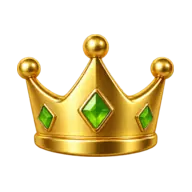
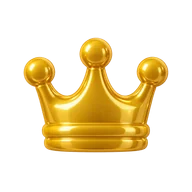
feat: generate modern token and disc sprites

Changed region(s): [[0.0625, 0.1562, 0.9062, 0.8438]]

diff --git a/docs/design/game-art-production.md b/docs/design/game-art-production.md
@@ -68,13 +68,15 @@ node scripts/normalize-game-art.mjs --family checkers
 node scripts/normalize-game-art.mjs --asset modern/checkers/player-1
 ```
 
-Each output is derived from its own individual `sourcePath` and writes exactly its `finalPath`; Hangman also reads its six sibling sources to establish the shared framing. Missing files, absent alpha, non-square images, edge-touching silhouettes (including faint alpha), opaque corners, unsafe padding, wrong fill, and extra meaningful objects fail before any output is replaced. Legacy, generation-pending, and authority-pending records cannot be normalized. The CLI validates every selected source before writing output files.
+Each output is derived from its own individual `sourcePath` and writes exactly its `finalPath`; Hangman also reads its six sibling sources to establish the shared framing. Missing files, absent alpha, non-square images, meaningful clipped content, and extra meaningful objects fail before any output is replaced. Non-Hangman source preparation removes only detached sub-5% alpha residue in memory; connected antialiasing remains intact. Strict final WebP validation still rejects every nonzero-alpha edge contact, opaque corners, unsafe padding, wrong fill, and extra meaningful objects. Legacy, generation-pending, and authority-pending records cannot be normalized. The CLI preflights every selected source and final output before writing output files.
 
 `readImageMetrics(input)` accepts a file path or encoded buffer and returns decoded dimensions, original `hasAlpha`, format, visible bounds, fill, per-side padding, corner/edge checks, visible-pixel count, and connected-component metrics. Geometry includes every nonzero alpha pixel. Connectivity uses alpha at least 13/255 (approximately 5%), eight-neighbor connectivity, and a meaningful component threshold of the greater of four pixels or 1% of connected foreground. Valid art requires one meaningful component containing at least 95% of the connected foreground.
 
 `assertImageMetrics(metrics, record)` enforces the record's square target dimension, alpha requirements, at least 10% transparent padding on every side, and 72–80% longest-bound fill. Fill is the maximum of visible width/canvas width and visible height/canvas height, not opaque pixel area; thin quarter edges and wide Hangman platforms therefore retain sensible framing. The manifest's bounds are fixed at `{ minFill: 0.72, maxFill: 0.80, safePadding: 0.10 }` and cannot be weakened to make an image pass.
 
-`normalizeGameArtAsset(record, { root, write = true })` handles non-Hangman families, validates the source, crops only its empty border, scales visible pixels down toward 76% of the target canvas, and centers them. It never upscales, removes objects, fabricates alpha, or repairs clipped art. The final WebP uses quality 86, alpha quality 100, and effort 6, then is decoded and revalidated before writing. Too-small sources fail if they cannot meet minimum fill without upscaling. It returns `{ data, metrics, finalPath }`; `write: false` allows a no-write preflight. Repeat runs with the same sources and locked image-tool versions produce identical bytes.
+`normalizeGameArtAsset(record, { root, write = true })` handles non-Hangman families, prepares the source without changing its file, crops empty borders, scales visible pixels down toward 76% of the target canvas, and centers them. It never upscales, removes meaningful objects, fabricates a missing alpha channel, or repairs clipped art. Oversized or off-center source framing can be normalized when the complete source silhouette is intact. The final WebP uses quality 86, alpha quality 100, and effort 6, then is decoded and revalidated against the unchanged strict contract before writing. Too-small sources fail if they cannot meet minimum fill without upscaling. It returns `{ data, metrics, finalPath }`; `write: false` allows a no-write preflight. Repeat runs with the same sources and locked image-tool versions produce identical bytes.
+
+Task 2B exposed faint detached alpha in built-in PNGs, which the original source preflight incorrectly treated as clipped production art. `prepareGameArtSource(input)` first requires square genuine-alpha art with one meaningful component containing at least 95% of foreground at alpha >=13/255. Every pixel at that threshold is preserved and must be clear of the canvas edge. An eight-neighbor flood through nonzero alpha preserves all connected antialiasing; only unconnected pixels below 13/255 are cleared in memory. Connected faint bridges reaching an edge still fail. The helper returns `{ input, metrics, removedPixels }`; original source PNGs remain byte-identical. `readImageMetrics`, strict final assertions, and Hangman group framing are unchanged. Synthetic regressions cover residue cleanup, antialias preservation, meaningful edge/secondary-object rejection, deterministic output, source preservation, and no upscaling.
 
 Hangman must use `normalizeHangmanGroup(records, { root, write = true })`, which requires all seven inspected sources for one theme. It derives one union crop from every alpha bound, one shared scale, and one shared lower base anchor at `targetSize - floor(targetSize * 0.12)`. All seven images receive that same transform; independent centering is rejected. Source canvases must match and their base bottoms must agree within one source pixel. The frozen stage prompts keep a 778px-wide platform centered at x=512 with bottom y=901 on a 1024px canvas. Sources with inconsistent framing must be regenerated rather than independently repositioned. The helper returns `{ results, transform }` and preflights the complete group before writing any result.
 

diff --git a/docs/design/game-art-fidelity-ledger.md b/docs/design/game-art-fidelity-ledger.md
@@ -85,9 +85,9 @@ The evidence above is historical evidence for the previous artwork and build. Ta
 
 | Family | Modern | Retro | Arcade | Batch acceptance requirement |
 | --- | --- | --- | --- | --- |
-| Tic-Tac-Toe | 2 pending | 2 pending | 2 pending | Complete X/O silhouettes and clear ring opening |
-| Connect Four | 2 pending | 2 pending | 2 pending | Circular discs matching current semantic ownership |
-| Checkers | 3 pending | 3 pending | 3 pending | Top-down ridged discs; separate centered king marker |
+| Tic-Tac-Toe | 2 accepted in Task 2B | 2 pending | 2 pending | Complete X/O silhouettes and clear ring opening |
+| Connect Four | 2 accepted in Task 2B | 2 pending | 2 pending | Circular discs matching current semantic ownership |
+| Checkers | 3 accepted in Task 2B | 3 pending | 3 pending | Top-down ridged discs; separate centered king marker |
 | Chinese Checkers | 6 pending | 6 pending | 6 pending | Equal round marbles with six distinct colors |
 | Mancala | 6 pending | 6 pending | 6 pending | Individual recognizable stones/seeds with six shapes |
 | Pop & Race | 4 pending | 4 pending | 4 pending | Classic rounded pawns matching seat colors |
@@ -98,3 +98,16 @@ The evidence above is historical evidence for the previous artwork and build. Ta
 Each later generation batch must inspect every built-in generation result at original detail, copy the accepted source into its manifest path, record the actual prompt and dates, remove its pending flag, normalize, then inspect deterministic final-WebP contact sheets on both `#f5f5f5` and `#101020`. Replace the relevant pending cells with explicit accept/reject evidence only after those checks. There are no new visual QA contact sheets in this preparation task.
 
 Synthetic decoded-image tests establish stable Hangman base placement, shared scale, deterministic output independent of record order, source preservation, and rejection of incomplete or inconsistently framed groups. These are pipeline checks, not visual approval of the future generated characters.
+
+## Task 2B Modern tokens and discs — 2026-09-27
+
+Accepted seven distinct built-in image generations after original-resolution source inspection and deterministic normalization: red player1 X, blue player2 O, blue player2 / red player1 Connect Four discs and checker discs, and one shared gold crown. The two unselected X retries remain outside the repository. Exact accepted prompts, portable source/final paths, actual generation timestamps and review timestamps are in the seven Modern manifest records. Sources are copied unchanged; the normalizer removes only detached alpha below 5% in memory, preserving connected antialiasing and every meaningful object.
+
+| Inspection | Evidence and result |
+| --- | --- |
+| Original sources | All nine successful generation outputs were inspected at their native 1254×1254 dimensions. The local viewer could not launch because bubblewrap is unavailable; the authorized equivalent forwarded high-quality WebP previews without cropping or resizing at original detail. Alpha measurements used untouched PNGs. |
+| Production-size light/dark | [Light](qa/modern-tokens-discs-light.webp) and [dark](qa/modern-tokens-discs-dark.webp) sheets show all seven final WebPs at their native 256px or 192px size. Complete X, unobstructed O opening, circular recessed Connect Four faces, concentric checker ridges, and separate three-point crown all pass. No background boxes, detached specks, clipping, text, or ground planes appear. |
+| Phone-size readability | [Light](qa/modern-tokens-discs-phone-light.webp) and [dark](qa/modern-tokens-discs-phone-dark.webp) 64px-cell sheets preserve every silhouette, red/blue ownership, ridge distinction, and crown treatment. |
+| Geometry and budget | All seven finals have one meaningful component, genuine alpha, transparent corners, no edge contact, 76.04–76.17% longest-bound fill, and at least 11.72% padding. The batch totals 55,462 bytes; its largest final is 10,834 bytes. |
+
+Contact-sheet order is X, O, blue Connect Four, red Connect Four, blue checker, red checker, crown. These QA sheets are inspection artifacts only. Stage remains `generation-batches`: seven completed custom records, 101 `generationPending` custom records, and nine `authorityReferencePending` quarter slots. No records outside this batch changed. This batch inspection does not claim a fresh browser gameplay audit.
